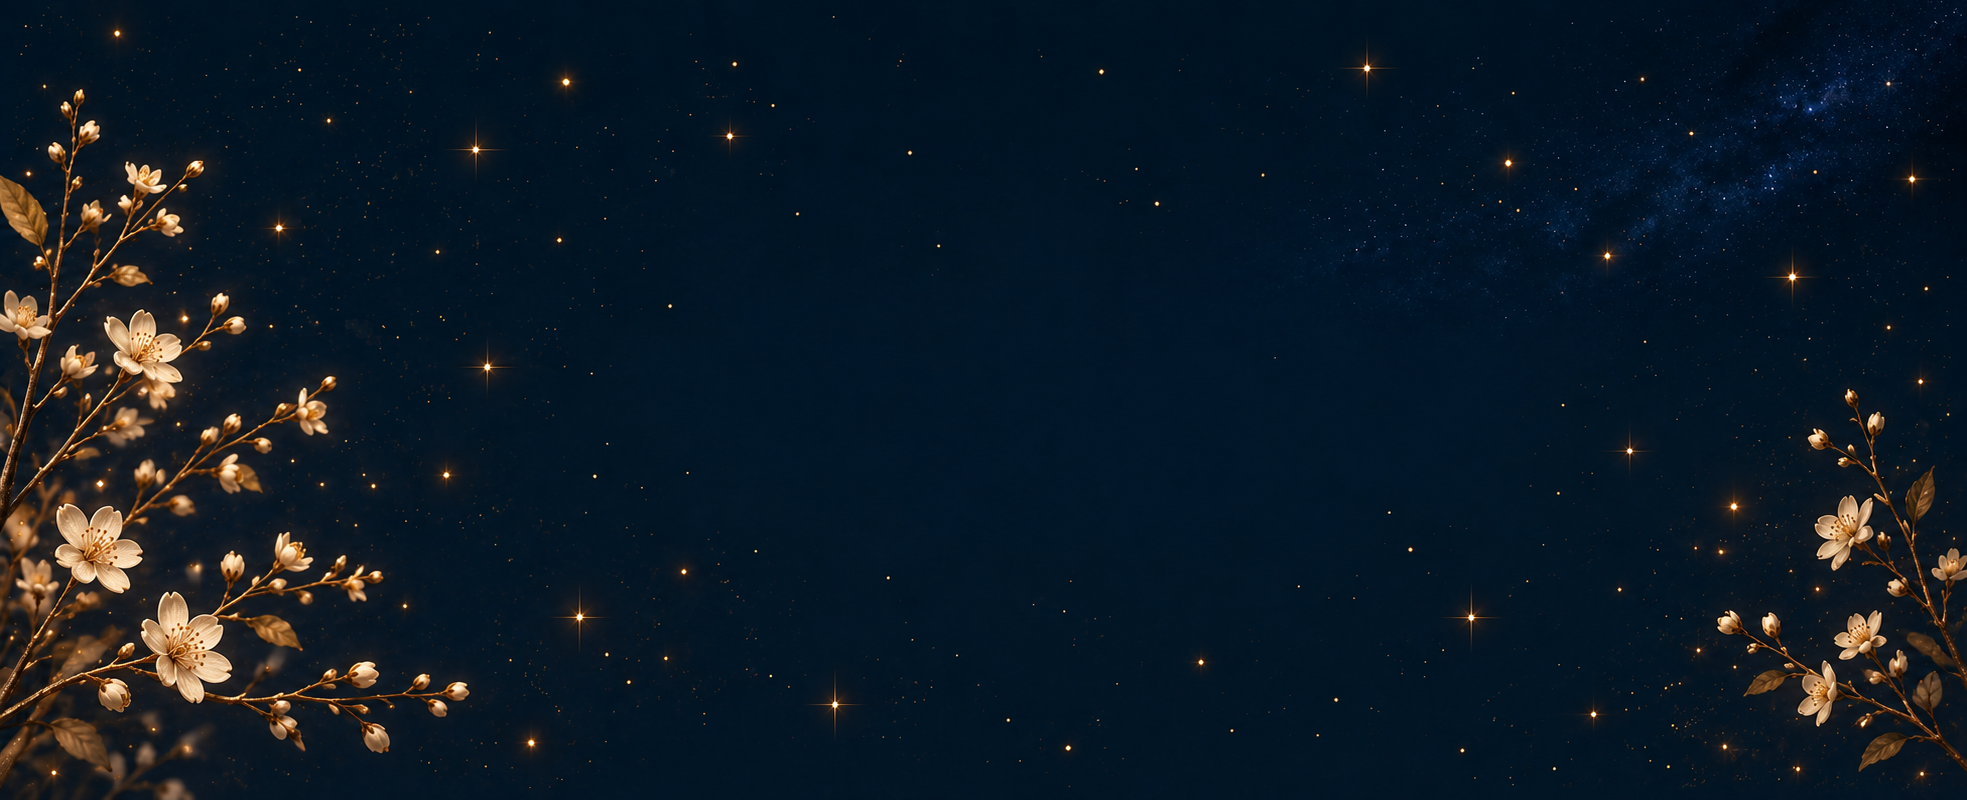
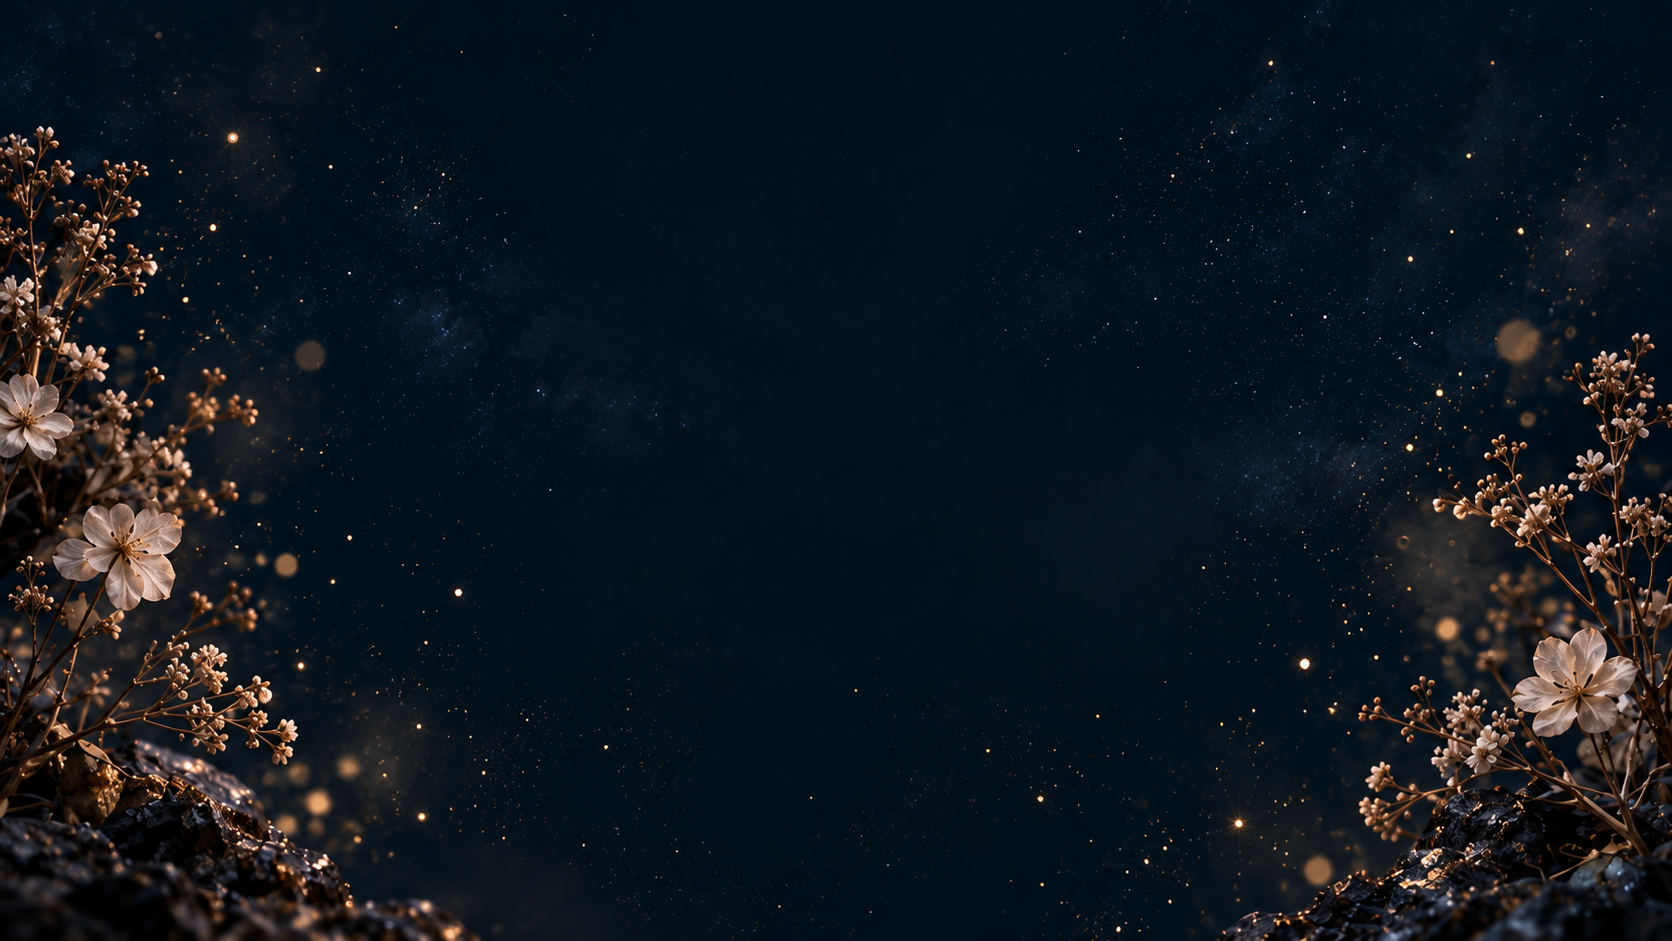
Add files via upload

diff --git a/blog.html b/blog.html
@@ -27,7 +27,25 @@
     .list-view { display: block; }
     #articleView { display: none; }
 
-    .blog-header { position: relative; isolation: isolate; overflow: hidden; min-height: 330px; padding: 5rem 2rem 3.5rem; width: 100%; margin: 0 auto 2rem; display: flex; flex-direction: column; align-items: center; justify-content: center; text-align: center; background: #08182a url('blog-header-night.png') center / cover no-repeat; }
+    .blog-header { position: relative; isolation: isolate; overflow: hidden; min-height: 330px; padding: 5rem 2rem 3.5rem; width: 100%; margin: 0 auto 2rem; display: flex; flex-direction: column; align-items: center; justify-content: center; text-align: center; background: #08182a url('blog-header-night.png') center center / cover no-repeat; }
+    .blog-header > :not(.blog-floral):not(.blog-stars) { position: relative; z-index: 2; }
+    .blog-floral { display: none; position: absolute; bottom: -18px; width: 185px; height: 280px; background: url('blog-floral-overlay.png') center bottom / contain no-repeat; opacity: .66; pointer-events: none; z-index: 1; }
+    .blog-floral.left { left: -34px; transform: rotate(-17deg); transform-origin: bottom left; }
+    .blog-floral.right { right: -28px; width: 145px; height: 220px; opacity: .50; transform: scaleX(-1) rotate(-9deg); transform-origin: bottom right; }
+    .blog-stars { display: none; position: absolute; inset: 0; pointer-events: none; z-index: 1; }
+    .blog-stars i { position: absolute; color: #e8c58e; font-style: normal; line-height: 1; text-shadow: 0 0 7px rgba(232,197,142,.6); }
+    .blog-stars i:nth-child(1) { left: 7%; top: 18%; font-size: 9px; opacity: 0.82; }
+    .blog-stars i:nth-child(2) { left: 15%; top: 51%; font-size: 13px; opacity: 0.82; }
+    .blog-stars i:nth-child(3) { left: 26%; top: 29%; font-size: 7px; opacity: 0.58; }
+    .blog-stars i:nth-child(4) { left: 35%; top: 77%; font-size: 5px; opacity: 0.58; }
+    .blog-stars i:nth-child(5) { left: 47%; top: 17%; font-size: 7px; opacity: 0.58; }
+    .blog-stars i:nth-child(6) { left: 57%; top: 71%; font-size: 6px; opacity: 0.58; }
+    .blog-stars i:nth-child(7) { left: 69%; top: 25%; font-size: 8px; opacity: 0.82; }
+    .blog-stars i:nth-child(8) { left: 82%; top: 68%; font-size: 11px; opacity: 0.82; }
+    .blog-stars i:nth-child(9) { left: 93%; top: 32%; font-size: 8px; opacity: 0.82; }
+    .blog-stars i:nth-child(10) { left: 12%; top: 83%; font-size: 6px; opacity: 0.58; }
+    .blog-stars i:nth-child(11) { left: 74%; top: 82%; font-size: 5px; opacity: 0.58; }
+    .blog-stars i:nth-child(12) { left: 90%; top: 14%; font-size: 5px; opacity: 0.58; }
     .section-label { font-size: 0.7rem; letter-spacing: 0.5em; color: var(--gold); text-transform: uppercase; margin-bottom: 1rem; }
     .section-title { font-family: 'Shippori Mincho', serif; font-size: clamp(1.4rem,4vw,2rem); color: var(--pale-gold); letter-spacing: 0.1em; font-weight: 500; margin-bottom: 0.5rem; }
     .divider { width: 60px; height: 1px; background: linear-gradient(to right, var(--gold), transparent); margin: 1.5rem 0; }
@@ -78,7 +96,11 @@
 
     @media (max-width: 600px) {
       .nav { padding: 1rem 1.2rem; }
-      .blog-header { min-height: 215px; padding: 3rem 1rem 2rem; background-position: center; }
+      .blog-header { min-height: 215px; padding: 3rem 1rem 2rem; }
+      .blog-floral { width: 82px; height: 128px; bottom: -6px; }
+      .blog-floral.left { left: -23px; }
+      .blog-floral.right { right: -22px; width: 70px; height: 108px; }
+      .blog-stars i { transform: scale(.7); }
       .insta-inner { flex-direction: column; align-items: flex-start; }
       .article-card { grid-template-columns: 1fr; }
       .card-arrow { display: none; }
@@ -102,6 +124,9 @@
 
 <div class="list-view" id="listView">
   <div class="blog-header">
+    <div class="blog-floral left" aria-hidden="true"></div>
+    <div class="blog-floral right" aria-hidden="true"></div>
+    <div class="blog-stars" aria-hidden="true"><i>✦</i><i>✦</i><i>✦</i><i>✦</i><i>✦</i><i>✦</i><i>✦</i><i>✦</i><i>✦</i><i>✦</i><i>✦</i><i>✦</i></div>
     <p class="section-label">Blog</p>
     <h1 class="section-title">月のしずく ブログ</h1>
     <div class="divider"></div>

diff --git a/index.html b/index.html
@@ -83,6 +83,14 @@
       初回の方は <strong>生年月日・出生時刻・出生地</strong> をご用意ください。出生時刻が不明な場合もご相談いただけます。<br>
       鑑定はオンライン（Zoom）または対面にて承っております。
     </div>
+    <div id="contact" class="menu-contact">
+      <p class="section-label">Contact</p>
+      <h2 class="section-title">ご予約・お問い合わせ</h2>
+    <div class="contact-box">
+      <p>鑑定はオンライン（Zoom）または対面にて承っております。<br>初回鑑定90分、スポット鑑定60分です。<br><br>初回の方は生年月日・出生時刻・出生地をご用意の上、<br>下記よりご予約ください。</p>
+      <a class="contact-btn" href="yoyaku.html">鑑定を予約する <span aria-hidden="true">→</span></a>
+    </div>
+    </div>
   </div>
 </div>
 
@@ -163,16 +171,6 @@
   </div>
 </div>
 
-<div class="page-band">
-  <div class="section">
-    <p class="section-label">Contact</p>
-    <h2 class="section-title">ご予約・お問い合わせ</h2>
-    <div class="contact-box">
-      <p>鑑定はオンライン（Zoom）または対面にて承っております。<br>初回鑑定90分、スポット鑑定60分です。<br><br>初回の方は生年月日・出生時刻・出生地をご用意の上、<br>下記よりご予約ください。</p>
-      <a class="contact-btn" href="yoyaku.html">予約フォームへ</a>
-    </div>
-  </div>
-</div>
 
 <footer class="footer">
   <p>占い師　月のしずく ／ 紫微斗数</p>
